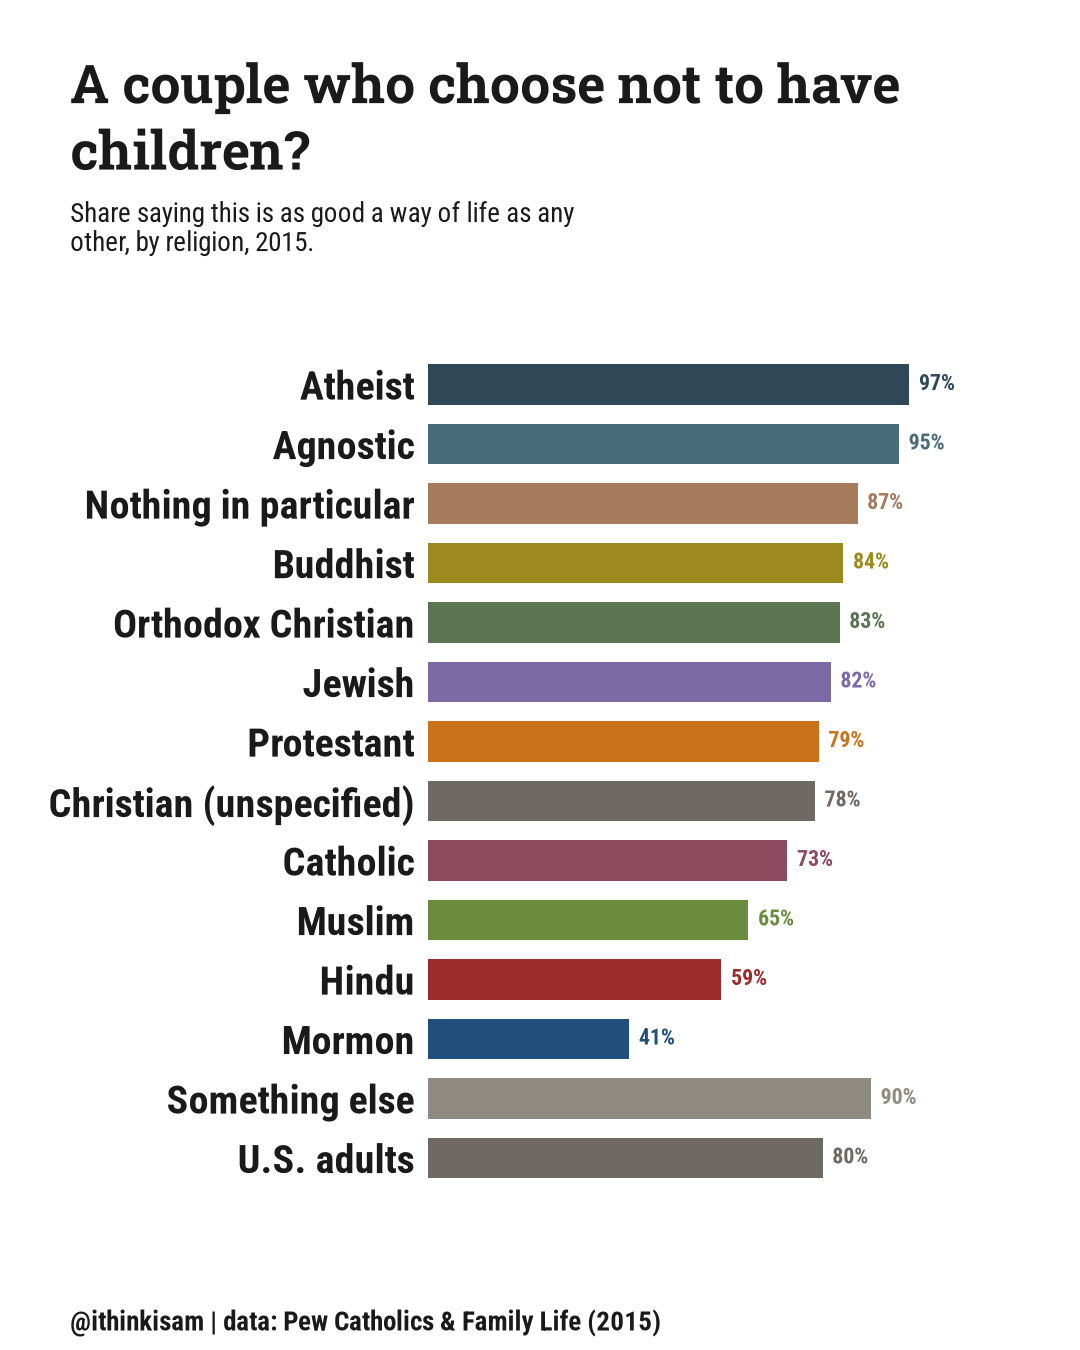
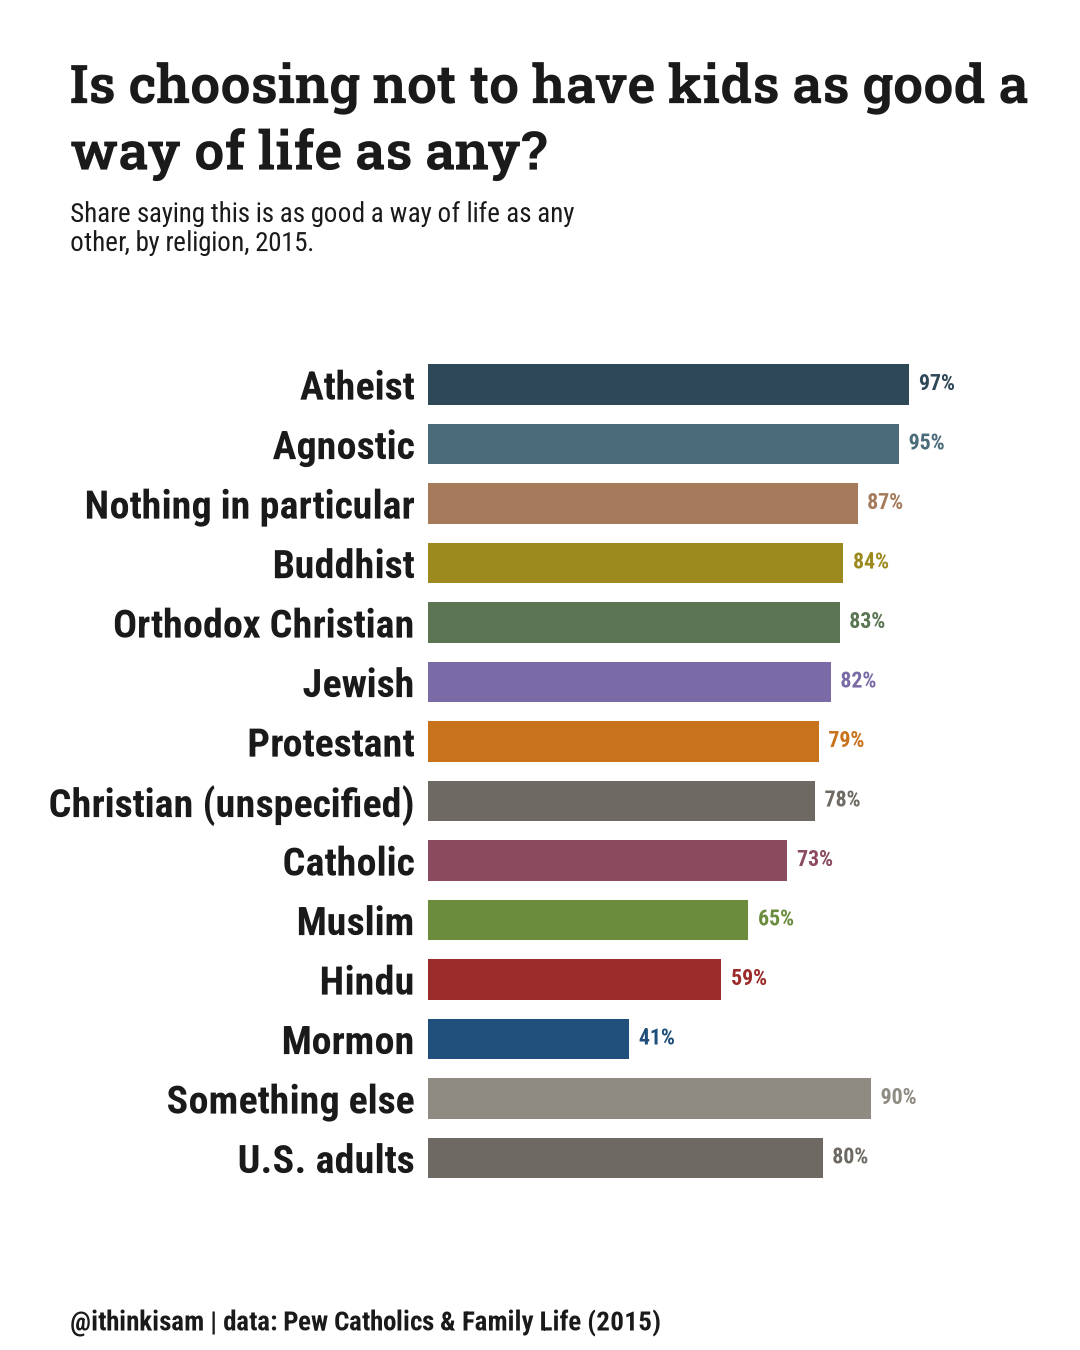
Rephrase Catholic family/life graphic titles as explicit opinion questions
Titles like "Raised by a single parent?" or "A couple who choose not to
have children?" could read as describing the share of the population in
that arrangement rather than the share who approve of it. Titles now spell
out the "as good as any other" framing so the chart heading alone can't be
misread as a population share.

Changed region(s): [[0.0611, 0.0311, 0.9472, 0.1244]]

diff --git a/src/lib/data-explorer.ts b/src/lib/data-explorer.ts
@@ -2571,7 +2571,7 @@ function householdTypeAlt(results: Record<string, { pct: number }>): string {
 function raisedByMarriedParentsGraphic(): Graphic {
   const results = householdTypesData.raised_by_married_mother_father;
   return {
-    title: "Raised by a married mother and father?",
+    title: "Is a married mom and dad as good a way to raise kids as any?",
     description: "Share saying this is as good an arrangement for raising children as any other, by religion, 2015.",
     imageSrc: "/data-explorer/pew-catholic-family-2015/raised-by-married-mother-father.png",
     width: 1080, height: 1350,
@@ -2582,7 +2582,7 @@ function raisedByMarriedParentsGraphic(): Graphic {
 function raisedBySingleParentGraphic(): Graphic {
   const results = householdTypesData.raised_by_single_parent;
   return {
-    title: "Raised by a single parent?",
+    title: "Is a single parent as good a way to raise kids as any?",
     description: "Share saying this is as good an arrangement for raising children as any other, by religion, 2015.",
     imageSrc: "/data-explorer/pew-catholic-family-2015/raised-by-single-parent.png",
     width: 1080, height: 1350,
@@ -2593,7 +2593,7 @@ function raisedBySingleParentGraphic(): Graphic {
 function raisedByDivorcedParentsGraphic(): Graphic {
   const results = householdTypesData.raised_by_divorced_parents;
   return {
-    title: "Raised by divorced parents?",
+    title: "Are divorced parents as good a way to raise kids as any?",
     description: "Share saying this is as good an arrangement for raising children as any other, by religion, 2015.",
     imageSrc: "/data-explorer/pew-catholic-family-2015/raised-by-divorced-parents.png",
     width: 1080, height: 1350,
@@ -2604,7 +2604,7 @@ function raisedByDivorcedParentsGraphic(): Graphic {
 function raisedByCohabitingParentsGraphic(): Graphic {
   const results = householdTypesData.raised_by_cohabiting_unmarried_parents;
   return {
-    title: "Raised by unmarried parents living together?",
+    title: "Are unmarried parents living together as good a way to raise kids as any?",
     description: "Share saying this is as good an arrangement for raising children as any other, by religion, 2015.",
     imageSrc: "/data-explorer/pew-catholic-family-2015/raised-by-cohabiting-unmarried-parents.png",
     width: 1080, height: 1350,
@@ -2615,7 +2615,7 @@ function raisedByCohabitingParentsGraphic(): Graphic {
 function raisedByGayLesbianCoupleGraphic(): Graphic {
   const results = householdTypesData.raised_by_gay_lesbian_couple;
   return {
-    title: "Raised by a gay or lesbian couple?",
+    title: "Is a gay or lesbian couple as good a way to raise kids as any?",
     description: "Share saying this is as good an arrangement for raising children as any other, by religion, 2015.",
     imageSrc: "/data-explorer/pew-catholic-family-2015/raised-by-gay-lesbian-couple.png",
     width: 1080, height: 1350,
@@ -2626,7 +2626,7 @@ function raisedByGayLesbianCoupleGraphic(): Graphic {
 function unmarriedCohabitingCoupleGraphic(): Graphic {
   const results = adultArrangementsData.unmarried_cohabiting_couple;
   return {
-    title: "An unmarried couple living together?",
+    title: "Is living together unmarried as good a way of life as any?",
     description: "Share saying this is as good a way of life as any other, by religion, 2015.",
     imageSrc: "/data-explorer/pew-catholic-family-2015/unmarried-cohabiting-couple.png",
     width: 1080, height: 1350,
@@ -2637,7 +2637,7 @@ function unmarriedCohabitingCoupleGraphic(): Graphic {
 function samesexCoupleLivingTogetherGraphic(): Graphic {
   const results = adultArrangementsData.samesex_couple_living_together;
   return {
-    title: "A same-sex couple living together?",
+    title: "Is a same-sex couple living together as good a way of life as any?",
     description: "Share saying this is as good a way of life as any other, by religion, 2015.",
     imageSrc: "/data-explorer/pew-catholic-family-2015/samesex-couple-living-together.png",
     width: 1080, height: 1350,
@@ -2648,7 +2648,7 @@ function samesexCoupleLivingTogetherGraphic(): Graphic {
 function childlessByChoiceGraphic(): Graphic {
   const results = adultArrangementsData.childless_by_choice;
   return {
-    title: "A couple who choose not to have children?",
+    title: "Is choosing not to have kids as good a way of life as any?",
     description: "Share saying this is as good a way of life as any other, by religion, 2015.",
     imageSrc: "/data-explorer/pew-catholic-family-2015/childless-by-choice.png",
     width: 1080, height: 1350,
@@ -2662,7 +2662,7 @@ function prayerStyleGraphic(): Graphic {
     .map(([g, r]) => `${g} ${r.pct.toFixed(0)}%`)
     .join(", ");
   return {
-    title: "Memorized prayers, or a personal conversation?",
+    title: "When praying, personal conversation or memorized words?",
     description: "Share who say they mainly have a personal conversation with God when they pray, by religion, 2015.",
     imageSrc: "/data-explorer/pew-catholic-family-2015/prayer-style.png",
     width: 1080, height: 1350,
@@ -2676,7 +2676,7 @@ function annulmentCommunionGraphic(): Graphic {
     .map((g) => `${g} ${results[g as keyof typeof results].pct}%`)
     .join(", ");
   return {
-    title: "Communion after remarriage, no annulment",
+    title: "Should remarried Catholics without an annulment receive Communion?",
     description: "Share of U.S. Catholics saying the Church should let divorced Catholics who remarry without an annulment take Communion, by Mass attendance, 2015.",
     imageSrc: "/data-explorer/pew-catholic-family-2015/annulment-communion.png",
     width: 1080, height: 1350,

diff --git a/scripts/pew-catholic-family-2015/render_household_types.py b/scripts/pew-catholic-family-2015/render_household_types.py
@@ -22,27 +22,27 @@ OUT_DIR = Path("public/data-explorer/pew-catholic-family-2015")
 CHARTS = [
     dict(
         key="raised_by_married_mother_father", out="raised-by-married-mother-father.png",
-        title="Raised by a married mother and father?",
+        title="Is a married mom and dad as good a way to raise kids as any?",
         subtitle="Share saying this is as good an arrangement for raising\nchildren as any other, by religion, 2015.",
     ),
     dict(
         key="raised_by_single_parent", out="raised-by-single-parent.png",
-        title="Raised by a single parent?",
+        title="Is a single parent as good a way to raise kids as any?",
         subtitle="Share saying this is as good an arrangement for raising\nchildren as any other, by religion, 2015.",
     ),
     dict(
         key="raised_by_divorced_parents", out="raised-by-divorced-parents.png",
-        title="Raised by divorced parents?",
+        title="Are divorced parents as good a way to raise kids as any?",
         subtitle="Share saying this is as good an arrangement for raising\nchildren as any other, by religion, 2015.",
     ),
     dict(
         key="raised_by_cohabiting_unmarried_parents", out="raised-by-cohabiting-unmarried-parents.png",
-        title="Raised by unmarried parents living together?",
+        title="Are unmarried parents living together as good a way to raise kids as any?",
         subtitle="Share saying this is as good an arrangement for raising\nchildren as any other, by religion, 2015.",
     ),
     dict(
         key="raised_by_gay_lesbian_couple", out="raised-by-gay-lesbian-couple.png",
-        title="Raised by a gay or lesbian couple?",
+        title="Is a gay or lesbian couple as good a way to raise kids as any?",
         subtitle="Share saying this is as good an arrangement for raising\nchildren as any other, by religion, 2015.",
     ),
 ]

diff --git a/scripts/pew-catholic-family-2015/render_adult_arrangements.py b/scripts/pew-catholic-family-2015/render_adult_arrangements.py
@@ -22,17 +22,17 @@ OUT_DIR = Path("public/data-explorer/pew-catholic-family-2015")
 CHARTS = [
     dict(
         key="unmarried_cohabiting_couple", out="unmarried-cohabiting-couple.png",
-        title="An unmarried couple living together?",
+        title="Is living together unmarried as good a way of life as any?",
         subtitle="Share saying this is as good a way of life as any\nother, by religion, 2015.",
     ),
     dict(
         key="samesex_couple_living_together", out="samesex-couple-living-together.png",
-        title="A same-sex couple living together?",
+        title="Is a same-sex couple living together as good a way of life as any?",
         subtitle="Share saying this is as good a way of life as any\nother, by religion, 2015.",
     ),
     dict(
         key="childless_by_choice", out="childless-by-choice.png",
-        title="A couple who choose not to have children?",
+        title="Is choosing not to have kids as good a way of life as any?",
         subtitle="Share saying this is as good a way of life as any\nother, by religion, 2015.",
     ),
 ]

diff --git a/scripts/pew-catholic-family-2015/render_annulment_communion_chart.py b/scripts/pew-catholic-family-2015/render_annulment_communion_chart.py
@@ -39,7 +39,7 @@ def main():
         rows=rows,
         values=values,
         highlight_rows=None,
-        title="Communion after remarriage, no annulment",
+        title="Should remarried Catholics without an annulment receive Communion?",
         subtitle="Share of U.S. Catholics saying the Church should let\ndivorced Catholics who remarry without an annulment take\nCommunion, by Mass attendance, 2015.",
         caption_paragraphs=[],
         handle="@ithinkisam | data: Pew 2015 U.S. Catholics & Family Life",

diff --git a/scripts/pew-catholic-family-2015/render_prayer_style.py b/scripts/pew-catholic-family-2015/render_prayer_style.py
@@ -33,7 +33,7 @@ def main():
         values=values,
         highlight_rows=None,
         group_identity=True,
-        title="Memorized prayers, or a personal conversation?",
+        title="When praying, personal conversation or memorized words?",
         subtitle="Share who say they mainly have a personal\nconversation with God when they pray, by religion, 2015.",
         caption_paragraphs=[],
         handle="@ithinkisam | data: Pew Catholics & Family Life (2015)",
